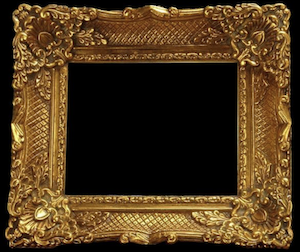
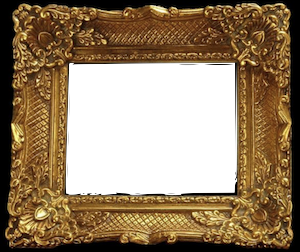
all pictures uploaded and tested

Changed region(s): [[0.21, 0.2222, 0.81, 0.7778]]

diff --git a/index.html b/index.html
@@ -11,49 +11,64 @@
     <link rel="stylesheet" href="assets/css/reset.css"/>
     <link rel="stylesheet" href="https://stackpath.bootstrapcdn.com/bootstrap/4.1.3/css/bootstrap.min.css" integrity="sha384-MCw98/SFnGE8fJT3GXwEOngsV7Zt27NXFoaoApmYm81iuXoPkFOJwJ8ERdknLPMO" crossorigin="anonymous">
     <link href="https://fonts.googleapis.com/css?family=Charmonman|Roboto:300i" rel="stylesheet">
+    <link href="https://fonts.googleapis.com/css?family=GFS+Didot" rel="stylesheet">
     <style type="text/css">
+
+    /*ADD FONT FAMILY!!!!*/
+
         body{
              background-color: black;
         }
-        .main{
-            width: 960px;
-            /* height: 400px; */
-            margin: 50 auto 0 auto; 
-            background-color: black;
-        
-        }
+     
 
        #header{
            padding: 10px;
            margin: 0;
            text-align: center;
-           letter-spacing: 40px;
-           font-size: 80px;
-           font-weight: 90;
+           letter-spacing: 30px;
+           font-size: 10px;
            background-color: black;
            color:#a92f41;
            font-size: 48px;
            border-bottom: 2px solid #b48375;
-           
+           font-family: 'GFS Didot', serif;
+          
        }
-
+       .main{
+            width: 960px;
+            margin: 50 auto 0 auto; 
+            background-color: black;
+            
+         
+        }
     
        .back{
            background-image: url("assets/images/frame3.png"); 
            background-repeat: no-repeat;
-            background-size: 400px 400px;
+            background-size: 410px 410px;
             padding: 100px;
-            position: relative;
-            z-index: 1;
-
-             /* position: absolute; */
-             
+           
+       }
+       .img{
+        
+           margin-top: 0px;
+           margin-left: 3px;
+           margin-bottom: 7px;
+           
+          
+       } 
     
+       .image {
+            margin-left: 3px;
+           margin-bottom: 7px;
+           margin-top: 10px;
+           height: 190px;
+           width: 190px;
+           
        }
        .updates{
            padding-top: 50px;
            color: white;
-
        }
        
        
@@ -64,11 +79,9 @@
             letter-spacing: 10px;
             font-family: 'Roboto', sans-serif;
             font-family: 'Charmonman', cursive;
-
         }
 
-        p{
-           
+        p{ 
             font-size: 20px;
             color: #91c7a9; 
             line-height: 40px; 
@@ -102,24 +115,7 @@
             font-family: 'Charmonman', cursive;
         }
 
-       .img{
-           margin-top: 0px;
-           margin-left: 3px;
-           margin-bottom: 7px;
-           position: relative;
-            z-index: -1; 
-          
-       } 
     
-       .image {
-           margin-top: 10px;
-           margin-left: 3px;
-           height: 200px;
-           width: 200px;
-           position: relative; /*not working*/
-           z-index: -1
-        
-       }
 
       </style>
     
@@ -136,7 +132,7 @@
     <div class="row main">
             <div class="col-12 col-md-6 back">
                    <div class = "image">
-                        <img class= img src="assets/images/picx.png" alt="primaryImage" height="200" width="200">
+                        <img class= img src="assets/images/picx.png" alt="primaryImage" height="190" width="190">
                    </div>
                 
             </div>
@@ -146,9 +142,14 @@
                 <br>
                 <br>
                 <p>Number of win is: <span id='win'>0</span></p>
-                <p>Correct Guess: <span id='correct'>- - - -</span></p>
+                <p>Correct Guess: 
+                    <p><span id='correct'>
+                        <br>
+                        
+                    </span></p>
+                </p>
                 <p>Wrong Guess: <span id='wrong'></span></p>
-                <p>Remaining Guesse(s): <span id='loss'>10</span></p>
+                <p>Remaining Guesses: <span id='loss'>10</span></p>
                 <br>
                
             </div>

diff --git a/assets/javascript/game.js b/assets/javascript/game.js
@@ -2,19 +2,24 @@ $(document).ready(function(){
 
     var obj ={
         masterArr : [
-            { name: "qe", pic: "assets/images/pic2.png", band:"Q"},
-
-            { name: "qe", pic:"assets/images/pic3.png", band:"Queen"}
-        
-        ],
+            { name: "yourloveisking", pic: "assets/images/king.png", band:"Your love is king"},
+             { name: "thesweetesttaboo", pic: "assets/images/taboo.png", band:"The Sweetest Taboo"},
+             { name: "paradise", pic: "assets/images/paradise.png", band:"Paradise"},
+            { name: "jezebel", pic: "assets/images/jezebel.png", band:"Jezebel"},
+            { name: "isitacrime", pic: "assets/images/crime.png", band:"Is It a Crime"},
+            { name: "likeatattoo", pic: "assets/images/tatoo.png", band:"like a Tattoo"},
+            { name: "pearls", pic: "assets/images/perls.png", band:"Pearls"},
+            { name: "noordinarylove", pic: "assets/images/noordinary.png", band:"No Ordinary Love"},
+            { name: "cherishtheday", pic: "assets/images/cherish.png", band:"Cherish the Day"},
+            { name: "kissoflife", pic: "assets/images/kiss.png", band:"kiss of Life"},
+            { name: "hangontoyourlove", pic: "assets/images/hangon.png", band:"Hang on to your Love"} 
+        ], // did not take account of spcace in letter check
         correctGuess : [],
         inCorrectGuess: [],
         currentWord : [], 
         currantWordUpdate: [],
-        //currentWord = masterArr[target]["name"].split(""), 
-        loss : 10,
+        loss : 10, // would like to set loss based on word length | this.loss =  this.currentWord + 5? 
         win: 0,
-        //target : Math.floor(Math.random() * this.masterArr.length),
 
         setGame : function(){
             
@@ -24,7 +29,6 @@ $(document).ready(function(){
             for(var i = 0; i< this.currentWord.length; i++){
                 this.correctGuess[i] = ' - ';
             }
-            //this.loss =  this.currentWord + 5;
 
         }, //end of setGame 
 
@@ -108,9 +112,9 @@ $(document).ready(function(){
         },// end of gameState
 
         reset: function(){
-        //debugger;
        
-        var resetCorrectWord = '- - - -';
+       
+        var resetCorrectWord = ' ';
         var resetIcorrectWord = ' ';
         this.updateCorrectLetter(resetCorrectWord);
         this.updateIncorrectLetter(resetIcorrectWord);
@@ -122,7 +126,7 @@ $(document).ready(function(){
         }
     }//end of obj
 
-            
+        // add alert to prevent user from entering non alpha ...
         document.onkeyup = function(event){
         if(obj.correctGuess.length === 0 && obj.inCorrectGuess.length === 0){
             obj.setGame();
